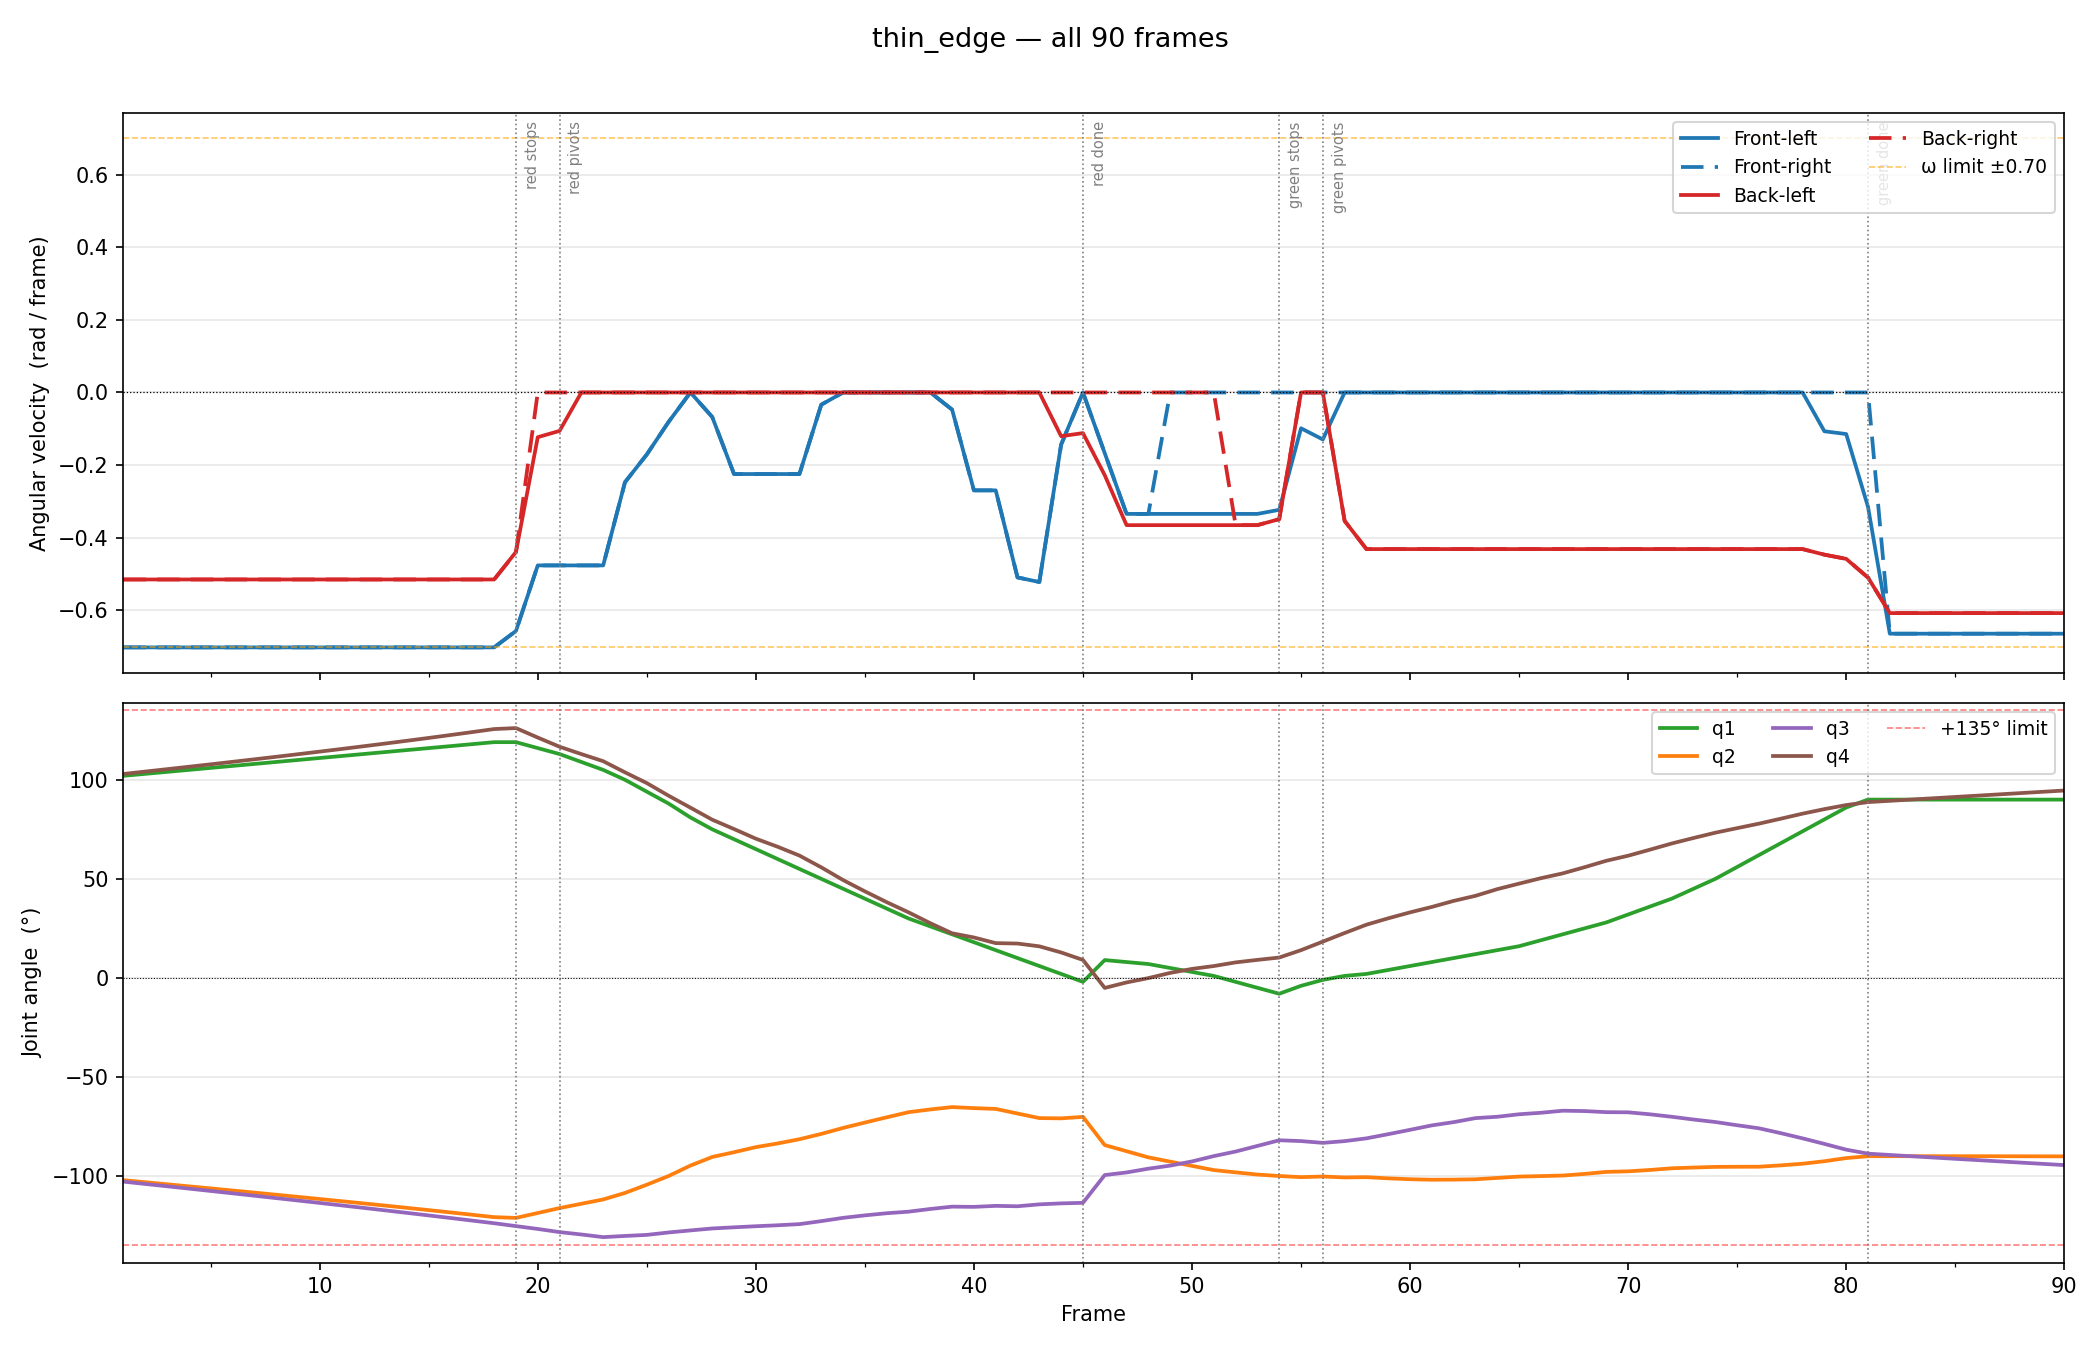
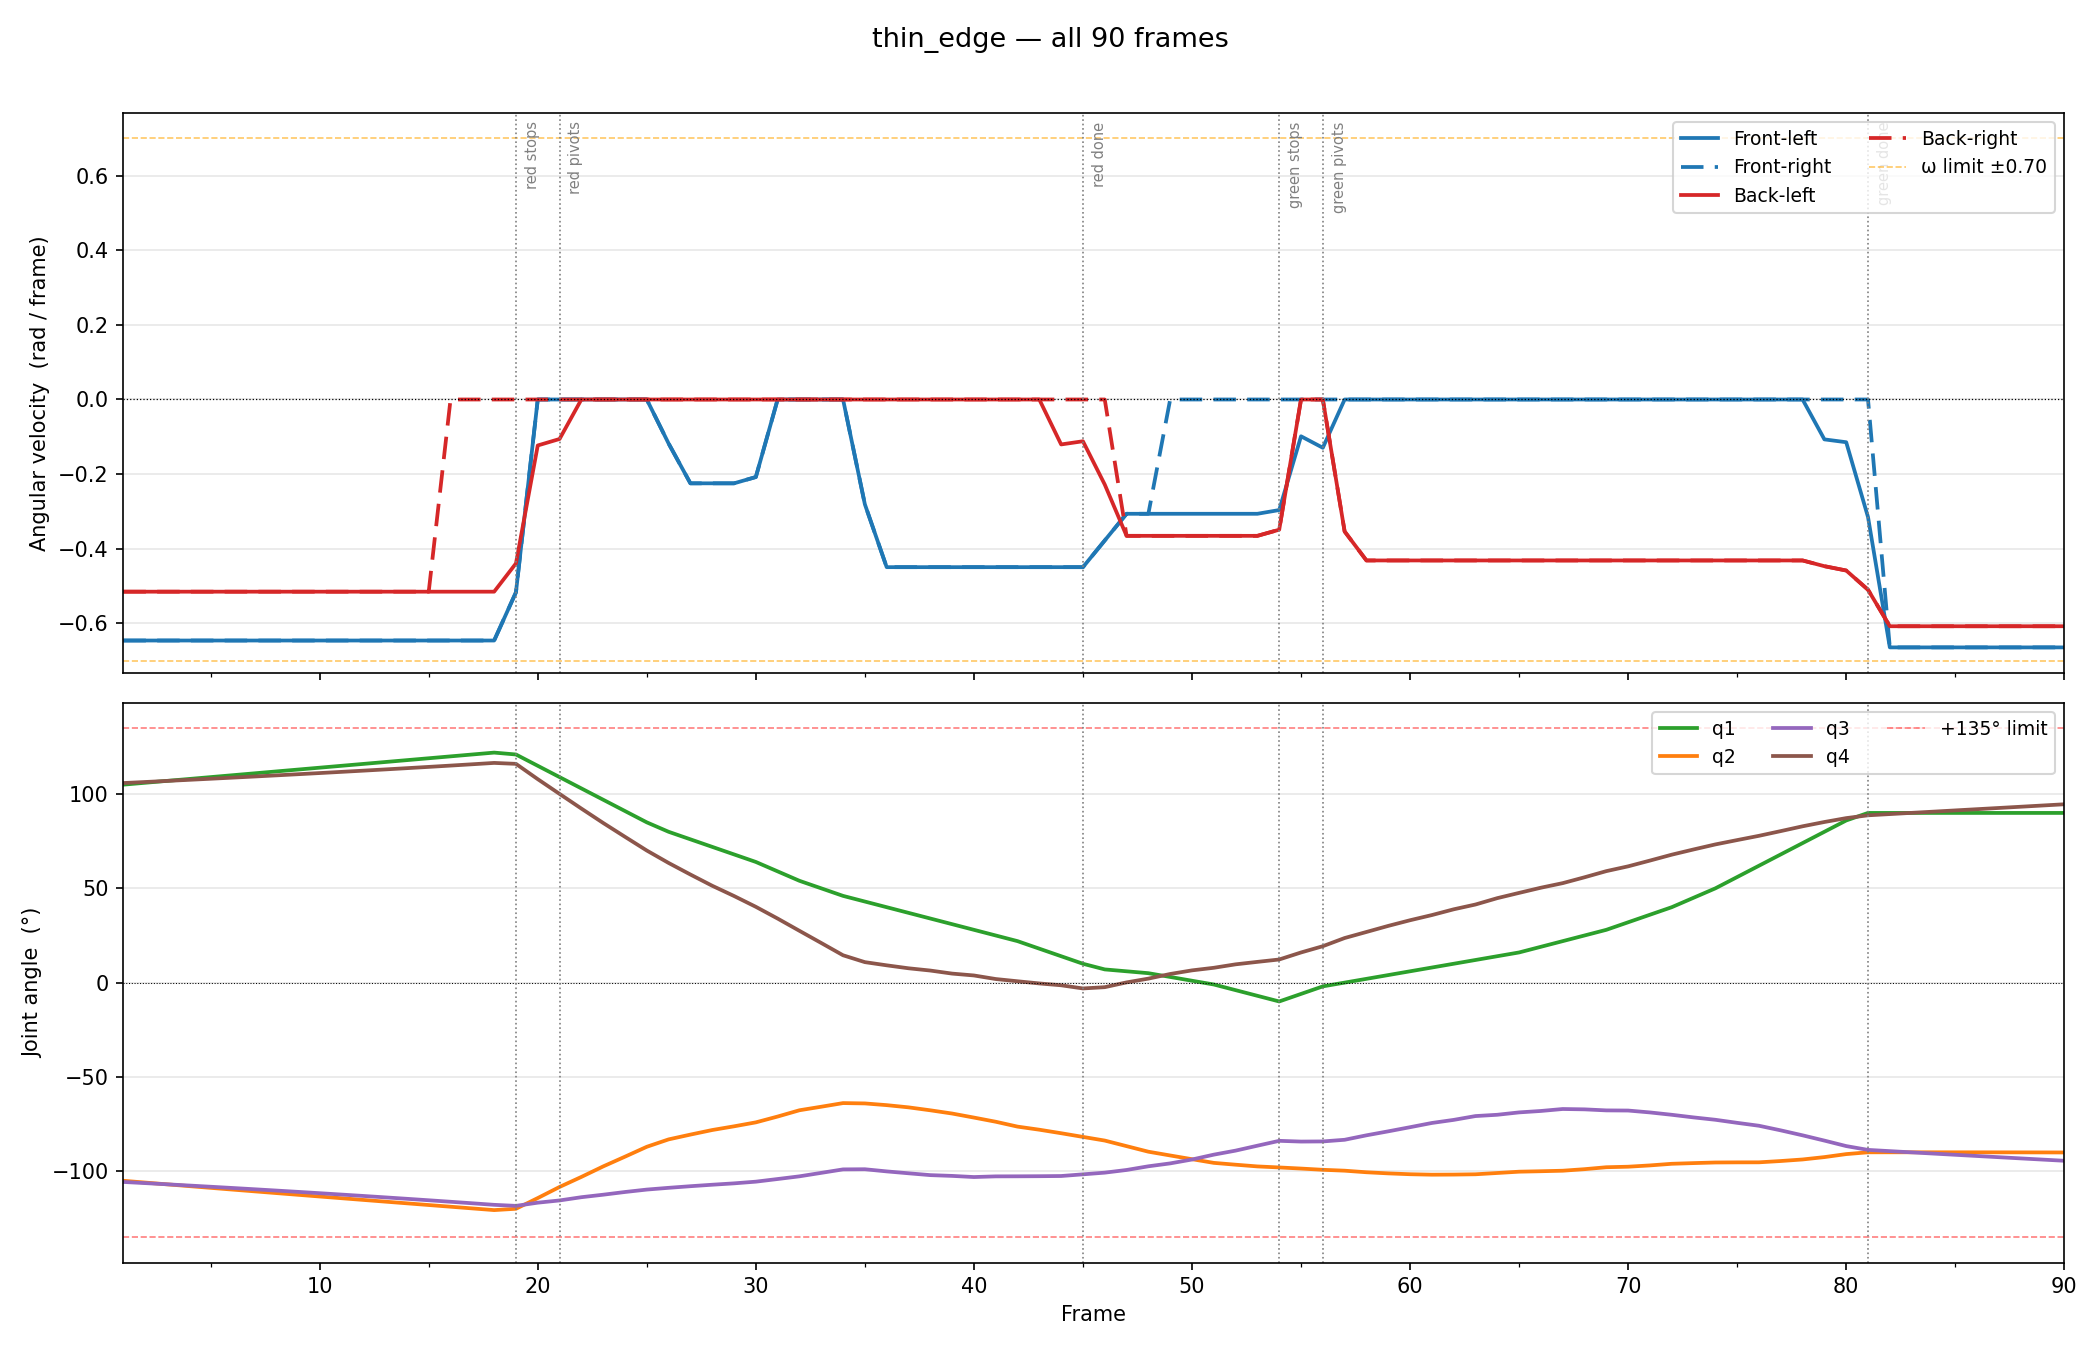
cleaned up transitions with updated wheel geoemtry

diff --git a/traj_solver/animate_transition.py b/traj_solver/animate_transition.py
@@ -448,31 +448,31 @@ KEYFRAMES_FLOOR_TO_WALL = [
                  "x2": 1.00, "y2": 0.233, "theta2": 0.0,
                  "constraint_set": "wall", "wall_x": WALL_X, "ceiling_y": _FTW_CY},
     # ---- Front rotation: arm_a1 pivots at corner, theta: 0 → -π/2 ----
-    # Assembly rotates like a rigid line between the two wheels; x1,y1 computed
-    # from the pivot formula so hints match the geometry exactly.
-    {"t": 0.180, "x1": _ftw1(-np.pi / 12)[0], "y1": _ftw1(-np.pi / 12)[1],
+    # 5 steps × 15° at Δt=0.025, final step (−75°→−90°) at Δt=0.030 to clear
+    # the IK branch flip that spans that angular range (q2 shifts ~23° there).
+    {"t": 0.175, "x1": _ftw1(-np.pi / 12)[0], "y1": _ftw1(-np.pi / 12)[1],
                  "theta1": -np.pi / 12,
                  "x2": 0.980, "y2": 0.233, "theta2": 0.0,
                  "constraint_set": "wall", "wall_x": WALL_X, "ceiling_y": _FTW_CY},
-    {"t": 0.205, "x1": _ftw1(-np.pi / 6)[0],  "y1": _ftw1(-np.pi / 6)[1],
+    {"t": 0.200, "x1": _ftw1(-np.pi / 6)[0],  "y1": _ftw1(-np.pi / 6)[1],
                  "theta1": -np.pi / 6,
                  "x2": 0.980, "y2": 0.233, "theta2": 0.0,
                  "constraint_set": "wall", "wall_x": WALL_X, "ceiling_y": _FTW_CY},
-    {"t": 0.228, "x1": _ftw1(-np.pi / 4)[0],  "y1": _ftw1(-np.pi / 4)[1],
+    {"t": 0.225, "x1": _ftw1(-np.pi / 4)[0],  "y1": _ftw1(-np.pi / 4)[1],
                  "theta1": -np.pi / 4,
                  "x2": 0.960, "y2": 0.233, "theta2": 0.0,
                  "constraint_set": "wall", "wall_x": WALL_X, "ceiling_y": _FTW_CY},
-    {"t": 0.248, "x1": _ftw1(-np.pi / 3)[0],  "y1": _ftw1(-np.pi / 3)[1],
+    {"t": 0.250, "x1": _ftw1(-np.pi / 3)[0],  "y1": _ftw1(-np.pi / 3)[1],
                  "theta1": -np.pi / 3,
                  "x2": 0.960, "y2": 0.233, "theta2": 0.0,
                  "constraint_set": "wall", "wall_x": WALL_X, "ceiling_y": _FTW_CY},
-    {"t": 0.298, "x1": _ftw1(-5 * np.pi / 12)[0], "y1": _ftw1(-5 * np.pi / 12)[1],
+    {"t": 0.275, "x1": _ftw1(-5 * np.pi / 12)[0], "y1": _ftw1(-5 * np.pi / 12)[1],
                  "theta1": -5 * np.pi / 12,
                  "x2": 0.958, "y2": 0.233, "theta2": 0.0,
                  "constraint_set": "wall", "wall_x": WALL_X, "ceiling_y": _FTW_CY},
     # theta=-90°: front locks on wall.  y1=floor_y_for_assembly(-π/2)=0.102 so
     # the hint interpolation to y1=0.42 at t=0.44 stays within ω=0.70.
-    {"t": 0.328, "x1": _ftw1(-np.pi / 2)[0],  "y1": 0.102,
+    {"t": 0.305, "x1": _ftw1(-np.pi / 2)[0],  "y1": 0.102,
                  "theta1": -np.pi / 2,
                  "x2": 0.958, "y2": 0.233, "theta2": 0.0,
                  "constraint_set": "wall", "wall_x": WALL_X, "ceiling_y": _FTW_CY},
@@ -547,19 +547,19 @@ KEYFRAMES_WALL_TO_CEILING = [
                  "x2": 0.0, "y2": 0.40,     "theta2": -np.pi / 2,
                  "constraint_set": "ceiling", "wall_x": WALL_X, "ceiling_y": _WTC_CY},
     {"t": 0.150, "x1": 0.0, "y1": _WTC_CY, "theta1": -2 * np.pi / 3,
-                 "x2": 0.0, "y2": 0.37,     "theta2": -np.pi / 2,
+                 "x2": 0.0, "y2": 0.40,     "theta2": -np.pi / 2,
                  "constraint_set": "ceiling", "wall_x": WALL_X, "ceiling_y": _WTC_CY},
     {"t": 0.175, "x1": 0.0, "y1": _WTC_CY, "theta1": -3 * np.pi / 4,
-                 "x2": 0.0, "y2": 0.30,     "theta2": -np.pi / 2,
+                 "x2": 0.0, "y2": 0.40,     "theta2": -np.pi / 2,
                  "constraint_set": "ceiling", "wall_x": WALL_X, "ceiling_y": _WTC_CY},
     {"t": 0.200, "x1": 0.0, "y1": _WTC_CY, "theta1": -5 * np.pi / 6,
-                 "x2": 0.0, "y2": 0.30,     "theta2": -np.pi / 2,
+                 "x2": 0.0, "y2": 0.40,     "theta2": -np.pi / 2,
                  "constraint_set": "ceiling", "wall_x": WALL_X, "ceiling_y": _WTC_CY},
     {"t": 0.225, "x1": 0.0, "y1": _WTC_CY, "theta1": -11 * np.pi / 12,
-                 "x2": 0.0, "y2": 0.30,     "theta2": -np.pi / 2,
+                 "x2": 0.0, "y2": 0.40,     "theta2": -np.pi / 2,
                  "constraint_set": "ceiling", "wall_x": WALL_X, "ceiling_y": _WTC_CY},
     {"t": 0.250, "x1": 0.0, "y1": _WTC_CY, "theta1": np.pi,
-                 "x2": 0.0, "y2": 0.30,     "theta2": -np.pi / 2,
+                 "x2": 0.0, "y2": 0.40,     "theta2": -np.pi / 2,
                  "constraint_set": "ceiling", "wall_x": WALL_X, "ceiling_y": _WTC_CY},
     # Front slides right on ceiling; back climbs wall simultaneously.
     # Same x1/y2 profile as e57e82a; Δt stretched so ω ≤ 0.69 (wheel_r=0.050).
@@ -671,41 +671,41 @@ KEYFRAMES_OUTSIDE = [
                  "constraint_set": _CSE, "wall_x": WALL_X, "ceiling_y": CEILING_Y},
     # Front arrives at its stop; back at x2=0.30.
     {"t": 0.290, "x1": _XSTP,  "y1": _Y0, "theta1": 0.0,
-                 "x2": 0.300,  "y2": _Y0, "theta2": 0.0,
+                 "x2": 0.400,  "y2": _Y0, "theta2": 0.0,
                  "constraint_set": _CSE, "wall_x": WALL_X, "ceiling_y": CEILING_Y},
     # Front stationary at corner for 0.025 before rotation; back holds at x2=0.300.
     {"t": 0.315, "x1": _XSTP, "y1": _Y0, "theta1": 0.0,
-                 "x2": 0.300, "y2": _Y0, "theta2": 0.0,
+                 "x2": 0.400, "y2": _Y0, "theta2": 0.0,
                  "constraint_set": _CSE, "wall_x": WALL_X, "ceiling_y": CEILING_Y},
     # Front rotates (phi: 0 → π/2): 6 steps × 15° × Δt=0.025 = 0.150 total.
     # Back holds stationary at x2=0.300 while front completes its rotation.
     {"t": 0.340, "x1": _cj(    np.pi / 12)[0], "y1": _cj(    np.pi / 12)[1],
                  "theta1":     np.pi / 12,
-                 "x2": 0.300,                   "y2": _Y0, "theta2": 0.0,
+                 "x2": 0.400,                   "y2": _Y0, "theta2": 0.0,
                  "constraint_set": _CSE, "wall_x": WALL_X, "ceiling_y": CEILING_Y},
     {"t": 0.365, "x1": _cj(    np.pi /  6)[0], "y1": _cj(    np.pi /  6)[1],
                  "theta1":     np.pi /  6,
-                 "x2": 0.300,                   "y2": _Y0, "theta2": 0.0,
+                 "x2": 0.400,                   "y2": _Y0, "theta2": 0.0,
                  "constraint_set": _CSE, "wall_x": WALL_X, "ceiling_y": CEILING_Y},
     {"t": 0.390, "x1": _cj(    np.pi /  4)[0], "y1": _cj(    np.pi /  4)[1],
                  "theta1":     np.pi /  4,
-                 "x2": 0.300,                   "y2": _Y0, "theta2": 0.0,
+                 "x2": 0.400,                   "y2": _Y0, "theta2": 0.0,
                  "constraint_set": _CSE, "wall_x": WALL_X, "ceiling_y": CEILING_Y},
     {"t": 0.415, "x1": _cj(    np.pi /  3)[0], "y1": _cj(    np.pi /  3)[1],
                  "theta1":     np.pi /  3,
-                 "x2": 0.300,                   "y2": _Y0, "theta2": 0.0,
+                 "x2": 0.400,                   "y2": _Y0, "theta2": 0.0,
                  "constraint_set": _CSE, "wall_x": WALL_X, "ceiling_y": CEILING_Y},
     {"t": 0.440, "x1": _cj(5 * np.pi / 12)[0], "y1": _cj(5 * np.pi / 12)[1],
                  "theta1": 5 * np.pi / 12,
-                 "x2": 0.300,                    "y2": _Y0, "theta2": 0.0,
+                 "x2": 0.400,                    "y2": _Y0, "theta2": 0.0,
                  "constraint_set": _CSE, "wall_x": WALL_X, "ceiling_y": CEILING_Y},
     # Front rotation done — fully on exterior wall; back still on ceiling at x2=0.300.
     {"t": 0.465, "x1": _XW, "y1": _YW, "theta1": np.pi / 2,
-                 "x2": 0.300,            "y2": _Y0, "theta2": 0.0,
+                 "x2": 0.400,            "y2": _Y0, "theta2": 0.0,
                  "constraint_set": _CSE, "wall_x": WALL_X, "ceiling_y": CEILING_Y},
     # Both pause for 0.025; then back starts approaching while front descends.
     {"t": 0.490, "x1": _XW, "y1": _YW, "theta1": np.pi / 2,
-                 "x2": 0.300,            "y2": _Y0, "theta2": 0.0,
+                 "x2": 0.400,            "y2": _Y0, "theta2": 0.0,
                  "constraint_set": _CSE, "wall_x": WALL_X, "ceiling_y": CEILING_Y},
     # Back approaches at ≈2.72/unit, arriving at _XSTP2 at t=0.670.
     # Front descends at 1.75/unit from _YW throughout.
@@ -791,8 +791,6 @@ _XSTP_TE  = _cj_te(0)[0]    # green stop: arm_a1 wheel at terminus
 _Y0_TE    = _cj_te(0)[1]    # chain-joint y when assembly sits on edge top at theta=0
 _XSTP_red = _cj_te2(0)[0]   # red stop: arm_a2 wheel at terminus
 # Green intermediate stop: arm_b1 wheel at terminus (arm_b1 uses bar_len, not bar_len_a).
-_arm_b1_dir_at_0 = -np.pi / 2 + wg.arm_b1
-_XSTP2_TE = EDGE_X - wg.bar_len * np.cos(_arm_b1_dir_at_0) + wg.thigh
 _XW_TE    = _cj_te(np.pi)[0]
 _YW_TE    = _cj_te(np.pi)[1]
 _XW_red   = _cj_te2(np.pi)[0]
@@ -803,60 +801,65 @@ _CTE = "thin_edge_exact"
 KEYFRAMES_THIN_EDGE = [
     # Phase 0 — both approach on edge top (theta=0), moving right.
     # Red (x2, assembly 2) leads; green (x1, assembly 1) trails.
-    {"t": 0.00, "x1": -0.50, "y1": _Y0_TE, "theta1": 0.0,
+    {"t": 0.00, "x1": -0.475, "y1": _Y0_TE, "theta1": 0.0,
                 "x2": -0.108, "y2": _Y0_TE, "theta2": 0.0,
                 "constraint_set": _CTE, "wall_x": EDGE_X, "ceiling_y": EDGE_Y},
     # Phase 1 — red stops (left wheel above terminus); green still approaching.
-    {"t": 0.20, "x1":  0.125,    "y1": _Y0_TE, "theta1": 0.0,
+    {"t": 0.20, "x1":  0.1,    "y1": _Y0_TE, "theta1": 0.0,
                 "x2": _XSTP_red, "y2": _Y0_TE, "theta2": 0.0,
                 "constraint_set": _CTE, "wall_x": EDGE_X, "ceiling_y": EDGE_Y},
     # Phase 2 — red pivot (CW: theta2: 0 → −π), 12 steps × 15° × Δt=0.025.
-    {"t": 0.225, "x1":  0.178,    "y1": _Y0_TE, "theta1": 0.0,
+    # Green (x1) holds back to prevent wheel overlap with red's rotating body.
+    # Red's arm_a2 pivot wheel is fixed at (EDGE_X, EDGE_Y+wheel_r)=(0.44,0.55)
+    # throughout its rotation; green's arm_b1 wheel must stay ≥0.10m away (2×wheel_r).
+    # Constraint: x1 ≤ 0.250 (arm_b1 wheel at x=0.302, dist=0.138 to pivot).
+    # Early frames also need x1 reduced to clear red's swinging arm_b2 wheel.
+    {"t": 0.225, "x1":  0.1,    "y1": _Y0_TE, "theta1": 0.0,
                  "x2": _cj_te2( np.pi/12)[0], "y2": _cj_te2( np.pi/12)[1],
                  "theta2": -np.pi / 12,
                  "constraint_set": _CTE, "wall_x": EDGE_X, "ceiling_y": EDGE_Y},
-    {"t": 0.250, "x1":  0.231,    "y1": _Y0_TE, "theta1": 0.0,
+    {"t": 0.250, "x1":  0.1,    "y1": _Y0_TE, "theta1": 0.0,
                  "x2": _cj_te2(  np.pi/6)[0], "y2": _cj_te2(  np.pi/6)[1],
                  "theta2": -np.pi / 6,
                  "constraint_set": _CTE, "wall_x": EDGE_X, "ceiling_y": EDGE_Y},
-    {"t": 0.275, "x1":  0.25,    "y1": _Y0_TE, "theta1": 0.0,
+    {"t": 0.275, "x1":  0.1,    "y1": _Y0_TE, "theta1": 0.0,
                  "x2": _cj_te2(  np.pi/4)[0], "y2": _cj_te2(  np.pi/4)[1],
                  "theta2": -np.pi / 4,
                  "constraint_set": _CTE, "wall_x": EDGE_X, "ceiling_y": EDGE_Y},
-    {"t": 0.300, "x1":  0.25,    "y1": _Y0_TE, "theta1": 0.0,
+    {"t": 0.300, "x1":  0.125,    "y1": _Y0_TE, "theta1": 0.0,
                  "x2": _cj_te2(  np.pi/3)[0], "y2": _cj_te2(  np.pi/3)[1],
                  "theta2": -np.pi / 3,
                  "constraint_set": _CTE, "wall_x": EDGE_X, "ceiling_y": EDGE_Y},
-    {"t": 0.325, "x1": 0.275, "y1": _Y0_TE, "theta1": 0.0,
+    {"t": 0.325, "x1":  0.15,    "y1": _Y0_TE, "theta1": 0.0,
                  "x2": _cj_te2(5*np.pi/12)[0], "y2": _cj_te2(5*np.pi/12)[1],
                  "theta2": -5 * np.pi / 12,
                  "constraint_set": _CTE, "wall_x": EDGE_X, "ceiling_y": EDGE_Y},
-    {"t": 0.350, "x1": 0.3, "y1": _Y0_TE, "theta1": 0.0,
+    {"t": 0.350, "x1":  0.15,    "y1": _Y0_TE, "theta1": 0.0,
                  "x2": _cj_te2(  np.pi/2)[0], "y2": _cj_te2(  np.pi/2)[1],
                  "theta2": -np.pi / 2,
                  "constraint_set": _CTE, "wall_x": EDGE_X, "ceiling_y": EDGE_Y},
-    {"t": 0.375, "x1": 0.3, "y1": _Y0_TE, "theta1": 0.0,
+    {"t": 0.375, "x1":  0.15,    "y1": _Y0_TE, "theta1": 0.0,
                  "x2": _cj_te2(7*np.pi/12)[0], "y2": _cj_te2(7*np.pi/12)[1],
                  "theta2": -7 * np.pi / 12,
                  "constraint_set": _CTE, "wall_x": EDGE_X, "ceiling_y": EDGE_Y},
-    {"t": 0.400, "x1": 0.3, "y1": _Y0_TE, "theta1": 0.0,
+    {"t": 0.400, "x1":  0.2,    "y1": _Y0_TE, "theta1": 0.0,
                  "x2": _cj_te2(2*np.pi/3)[0], "y2": _cj_te2(2*np.pi/3)[1],
                  "theta2": -2 * np.pi / 3,
                  "constraint_set": _CTE, "wall_x": EDGE_X, "ceiling_y": EDGE_Y},
-    {"t": 0.425, "x1": 0.3, "y1": _Y0_TE, "theta1": 0.0,
+    {"t": 0.425, "x1":  0.25,    "y1": _Y0_TE, "theta1": 0.0,
                  "x2": _cj_te2(3*np.pi/4)[0], "y2": _cj_te2(3*np.pi/4)[1],
                  "theta2": -3 * np.pi / 4,
                  "constraint_set": _CTE, "wall_x": EDGE_X, "ceiling_y": EDGE_Y},
-    {"t": 0.450, "x1": 0.33, "y1": _Y0_TE, "theta1": 0.0,
+    {"t": 0.450, "x1":  0.3,    "y1": _Y0_TE, "theta1": 0.0,
                  "x2": _cj_te2(5*np.pi/6)[0], "y2": _cj_te2(5*np.pi/6)[1],
                  "theta2": -5 * np.pi / 6,
                  "constraint_set": _CTE, "wall_x": EDGE_X, "ceiling_y": EDGE_Y},
-    {"t": 0.475, "x1": _XSTP2_TE, "y1": _Y0_TE, "theta1": 0.0,
+    {"t": 0.475, "x1":  0.35,    "y1": _Y0_TE, "theta1": 0.0,
                  "x2": _cj_te2(11*np.pi/12)[0], "y2": _cj_te2(11*np.pi/12)[1],
                  "theta2": -11 * np.pi / 12,
                  "constraint_set": _CTE, "wall_x": EDGE_X, "ceiling_y": EDGE_Y},
-    # Red pivot done — cold_at=0.50 fires here.
-    {"t": 0.500, "x1": _XSTP2_TE, "y1": _Y0_TE, "theta1": 0.0,
+    # Red pivot done; green waits at x1=0.25 until safe to advance.
+    {"t": 0.500, "x1":  0.4,    "y1": _Y0_TE, "theta1": 0.0,
                  "x2": _XW_red,    "y2": _YW_red, "theta2": -np.pi,
                  "constraint_set": _CTE, "wall_x": EDGE_X, "ceiling_y": EDGE_Y},
     # Phase 3 — stagger: green rolls to pivot start.
@@ -956,7 +959,7 @@ SCENARIO_CONFIG = {
         "keyframes":     KEYFRAMES_THIN_EDGE,
         "n_grid":        60,
         "smooth_weight": 30.0,
-        "cold_at":       [0.50, 0.61],
+        "cold_at":       None,
         "xlim":          (-0.7, 1.2),
         "ylim":          (-0.35, 1.0),
         "output":        "thin_edge.mp4",
